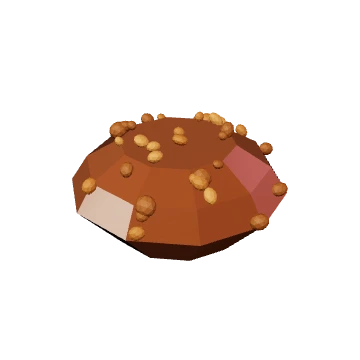
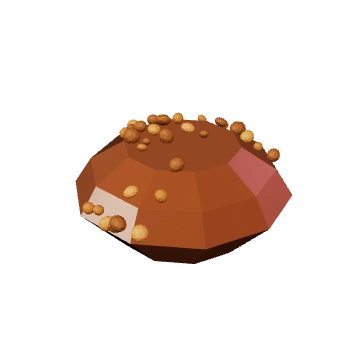
Faceted geometric heart, fluted dome, closed bases on every piece, walnut or pistachio coated truffles

Changed region(s): [[0.1833, 0.3056, 0.825, 0.7333], [0.55, 0.3667, 0.5806, 0.3972]]

diff --git a/js/models.js b/js/models.js
@@ -2,7 +2,7 @@
   مجسّمات الشوكولا: القطعة الكاملة (تقف على سطح، لا تطير) + القطعة المقطوعة (مقطع يُظهر الكبسولة: كبوة، حشوة، طبقة مقرمشة)
   + تزيين مجسّم فوق القطعة (ذهب/فستق/بندق/لوز) يوضع على السطح الحقيقي بالإشعاع.
 */
-import { THREE, TAU, TYPE_COLORS, FILL_COLORS, CRUNCH_COLORS, HEART, LIPS, circle, chaikin, centroid, pillow, ext, rr, shapeOf, lumpy, smooth, truffleGeo, powderOf } from './lib3d.js';
+import { THREE, TAU, TYPE_COLORS, FILL_COLORS, CRUNCH_COLORS, HEART, LIPS, circle, chaikin, centroid, pillow, ext, rr, shapeOf, lumpy, smooth, truffleGeo, powderOf, facetHeart, flutedDome } from './lib3d.js';
 
 export const SHAPES = ['tablet', 'truf', 'kalp', 'elmas', 'karamel', 'dudak'];
 export const SHELL_T = [.05, .085, .135];            // سماكة الكبوة: رقيقة، متوسطة، سميكة
@@ -18,7 +18,7 @@ export function ground(g, footprint = 1.95) {
 /* ------------------------------------------------------------------ القطعة الكاملة */
 export function buildWhole(id, M) {
   const g = new THREE.Group();
-  if (id === 'kalp') g.add(new THREE.Mesh(pillow(HEART, .52, .1, 22), M.gloss));
+  if (id === 'kalp') g.add(new THREE.Mesh(facetHeart(1, .1), M.flat));
   else if (id === 'dudak') g.add(new THREE.Mesh(pillow(LIPS, .42, .09, 22), M.gloss));
   else if (id === 'tablet') {
     const base = new THREE.Mesh(ext(rr(1.62, 2.14, .08), .05, .03, 3), M.gloss); g.add(base);
@@ -36,11 +36,7 @@ export function buildWhole(id, M) {
     const pts = [[0, 0], [.55, 0], [.95, .42], [.8, .66], [.5, .85], [0, .85]].map(([x, y]) => new THREE.Vector2(x, y));
     const m = new THREE.Mesh(new THREE.LatheGeometry(pts, 10), M.flat); m.rotation.y = Math.PI / 10; g.add(m);
   } else if (id === 'karamel') {
-    const pr = [new THREE.Vector2(1.03, 0)];
-    for (let i = 0; i <= 18; i++) { const a = i / 18 * Math.PI / 2; pr.push(new THREE.Vector2(Math.cos(a), Math.sin(a) * .82)); }
-    pr[pr.length - 1].x = .0001;
-    g.add(new THREE.Mesh(new THREE.LatheGeometry(pr, 56), M.gloss));
-    const f = new THREE.Mesh(new THREE.CylinderGeometry(.11, .11, .018, 6), M.gold); f.position.set(.04, .83, .02); g.add(f);
+    g.add(new THREE.Mesh(flutedDome(), M.gloss));
   }
   return ground(g, id === 'tablet' ? 1.9 : 1.95);
 }
@@ -48,11 +44,11 @@ export function buildWhole(id, M) {
 /* ------------------------------------------------------------------ التزيين المجسّم */
 const ray = new THREE.Raycaster(), _o = new THREE.Vector3(), _d = new THREE.Vector3(), _q = new THREE.Quaternion(), _m = new THREE.Matrix4(), _s = new THREE.Vector3(), _up = new THREE.Vector3(0, 1, 0), _c = new THREE.Color();
 const toppingDefs = {
-  hindistan: { n: 84, cover: 300, geo: () => new THREE.BoxGeometry(1, .1, .3), mat: () => new THREE.MeshStandardMaterial({ roughness: .95 }), size: [.07, .125], colors: [0xf8f1e0, 0xefe5cc, 0xfffaf0, 0xe9dcc0], off: .004, shred: true },
+  ceviz: { n: 60, cover: 430, geo: () => new THREE.IcosahedronGeometry(1, 0), mat: () => new THREE.MeshStandardMaterial({ roughness: .86, flatShading: true }), size: [.04, .085], colors: [0xb48a5a, 0xc9a574, 0x96704a, 0xa57d52, 0xd8bd90], off: .012 },
   altin: { n: 40, cover: 90, geo: () => { const g = new THREE.CircleGeometry(1, 5); g.rotateX(-Math.PI / 2); return g; }, mat: (M) => M.gold, size: [.03, .07], flat: true, off: .006 },
-  fistik: { n: 56, cover: 210, geo: () => new THREE.IcosahedronGeometry(1, 0), mat: () => new THREE.MeshStandardMaterial({ roughness: .55, flatShading: true }), size: [.028, .056], colors: [0x7f9f3e, 0x9cbd55, 0xb4cf72], off: .012 },
-  findik: { n: 34, cover: 120, geo: () => new THREE.IcosahedronGeometry(1, 1), mat: () => new THREE.MeshStandardMaterial({ roughness: .62, flatShading: true }), size: [.04, .072], colors: [0xa8702f, 0xbf8a46, 0x8b5826], off: .02 },
-  badem: { n: 24, cover: 90, geo: () => new THREE.SphereGeometry(1, 10, 8), mat: () => new THREE.MeshStandardMaterial({ roughness: .7 }), size: [.065, .1], colors: [0xd9b47c, 0xe4c590, 0xc9a06a], off: .012, almond: true }
+  fistik: { n: 56, cover: 800, geo: () => new THREE.IcosahedronGeometry(1, 0), mat: () => new THREE.MeshStandardMaterial({ roughness: .55, flatShading: true }), size: [.028, .056], colors: [0x7f9f3e, 0x9cbd55, 0xb4cf72], off: .012 },
+  findik: { n: 34, cover: 430, geo: () => new THREE.IcosahedronGeometry(1, 1), mat: () => new THREE.MeshStandardMaterial({ roughness: .62, flatShading: true }), size: [.04, .072], colors: [0xa8702f, 0xbf8a46, 0x8b5826], off: .02 },
+  badem: { n: 24, cover: 380, geo: () => new THREE.SphereGeometry(1, 10, 8), mat: () => new THREE.MeshStandardMaterial({ roughness: .7 }), size: [.065, .1], colors: [0xd9b47c, 0xe4c590, 0xc9a06a], off: .012, almond: true }
 };
 export function decorate(holder, kind, M) {
   if (holder.userData.deco) { holder.remove(holder.userData.deco); const d = holder.userData.deco; d.geometry.dispose(); d.material !== M.gold && d.material.dispose(); d.dispose(); holder.userData.deco = null; }
@@ -61,16 +57,20 @@ export function decorate(holder, kind, M) {
   const box = new THREE.Box3().setFromObject(holder); box.applyMatrix4(holder.matrixWorld.clone().invert());
   const spheres = holder.userData.spheres, total = spheres ? def.cover * spheres.length : def.n;
   const geo = def.geo(), im = new THREE.InstancedMesh(geo, def.mat(M), total); let k = 0; const hits = [];
-  if (spheres) {   // تروفل: كساء بكامل السطح (جوز هند / مكسرات) بأخذ عيّنات من كل كرة بإشعاعات من الخارج نحو المركز
-    const inv = holder.matrixWorld.clone().invert(), cen = new THREE.Vector3(), nrm = new THREE.Vector3(), dir = new THREE.Vector3();
+  if (spheres) {   // تروفل: كساء من كل الجهات: عيّنات موزونة بالمساحة من مثلثات كل حبة مباشرةً (بلا إشعاعات)، تُستثنى الملاصقة للسطح فقط
+    const A = new THREE.Vector3(), B = new THREE.Vector3(), C = new THREE.Vector3(), nA = new THREE.Vector3(), nB = new THREE.Vector3(), nC = new THREE.Vector3(), e1 = new THREE.Vector3(), e2 = new THREE.Vector3();
     spheres.forEach((mesh) => {
-      mesh.geometry.computeBoundingSphere(); mesh.getWorldPosition(cen); const R = mesh.geometry.boundingSphere.radius * mesh.getWorldScale(new THREE.Vector3()).x * 1.6 + .1; let got = 0;
-      for (let tries = 0; tries < def.cover * 10 && got < def.cover; tries++) {
-        dir.set(Math.random() * 2 - 1, Math.random() * 2 - 1, Math.random() * 2 - 1); if (dir.lengthSq() < .01 || dir.lengthSq() > 1) continue; dir.normalize();
-        _o.copy(cen).addScaledVector(dir, R); _d.copy(dir).negate(); ray.set(_o, _d);
-        const h = ray.intersectObject(mesh, false)[0]; if (!h || !h.face) continue;
-        nrm.copy(h.face.normal).transformDirection(mesh.matrixWorld); if (nrm.y < -.25) continue;
-        hits.push([holder.worldToLocal(h.point.clone()), nrm.clone().transformDirection(inv)]); got++;
+      mesh.updateMatrix();
+      const pos = mesh.geometry.attributes.position, nor = mesh.geometry.attributes.normal, tris = pos.count / 3, cum = new Float32Array(tris); let tot = 0;
+      for (let t = 0; t < tris; t++) { A.fromBufferAttribute(pos, t * 3); B.fromBufferAttribute(pos, t * 3 + 1); C.fromBufferAttribute(pos, t * 3 + 2); tot += e1.subVectors(B, A).cross(e2.subVectors(C, A)).length() * .5; cum[t] = tot; }
+      for (let k = 0, got = 0; got < def.cover && k < def.cover * 3; k++) {
+        const r = Math.random() * tot; let lo = 0, hi = tris - 1; while (lo < hi) { const m = (lo + hi) >> 1; if (cum[m] < r) lo = m + 1; else hi = m; }
+        let u = Math.random(), v = Math.random(); if (u + v > 1) { u = 1 - u; v = 1 - v; }
+        A.fromBufferAttribute(pos, lo * 3); B.fromBufferAttribute(pos, lo * 3 + 1); C.fromBufferAttribute(pos, lo * 3 + 2);
+        nA.fromBufferAttribute(nor, lo * 3); nB.fromBufferAttribute(nor, lo * 3 + 1); nC.fromBufferAttribute(nor, lo * 3 + 2);
+        const p = A.clone().addScaledVector(e1.subVectors(B, A), u).addScaledVector(e2.subVectors(C, A), v).applyMatrix4(mesh.matrix);
+        const n = nA.clone().multiplyScalar(1 - u - v).addScaledVector(nB, u).addScaledVector(nC, v).transformDirection(mesh.matrix);
+        hits.push([p, n]); got++;
       }
     });
   } else {
@@ -102,10 +102,16 @@ function domeProfile(W, H, wall) {
   for (let i = 0; i <= n; i++) { const x = W * (1 - 2 * i / n); pts.push([x, wall + (H - wall) * Math.pow(Math.max(0, 1 - Math.pow(Math.abs(x) / W, 2.4)), 1 / 2.4)]); }
   return chaikin(pts, 2);
 }
+/* القبة المضلّعة: جوانب عمودية عند القاعدة تنحني نحو قرص القمة المسطّح */
+function bellProfile(W, H, wall, Rt) {
+  const n = 28, right = [], left = [];
+  for (let i = 0; i <= n; i++) { const a = i / n * Math.PI / 2, x = W * (Rt + (1 - Rt) * Math.cos(a)), y = wall + (H - wall) * Math.sin(a); right.push([x, y]); left.unshift([-x, y]); }
+  return chaikin([[-W, 0], [W, 0], ...right, ...left], 2);
+}
 function profileOf(id) {
-  if (id === 'kalp') return domeProfile(.95, .55, .1);
+  if (id === 'kalp') return [[-.95, 0], [.95, 0], [.95, .1], [.62, .48], [.3, .58], [0, .5], [-.3, .58], [-.62, .48], [-.95, .1]];   // مقطع مضلّع حادّ الزوايا
   if (id === 'dudak') return domeProfile(.95, .44, .09);
-  if (id === 'karamel') return domeProfile(.9, .82, .07);
+  if (id === 'karamel') return bellProfile(.92, .84, .07, .23);
   if (id === 'truf') return circle(.86, 80).map(([x, y]) => [x, y + .86]);
   if (id === 'elmas') return chaikin([[-.55, 0], [.55, 0], [.95, .42], [.8, .66], [.5, .85], [-.5, .85], [-.8, .66], [-.95, .42]], 1);
   // tablet: صف من ثلاث مربعات بارزة فوق القاعدة
@@ -129,8 +135,8 @@ export function buildSlice(cfg, M) {
   const mkExt = (pts, depth, bev) => new THREE.ExtrudeGeometry(shapeOf(pts), { depth, bevelEnabled: true, bevelThickness: bev, bevelSize: bev, bevelSegments: 2, curveSegments: 4 });
   const D = .24;
   if (cfg.shape === 'truf') { // طبقة مسحوق الكاكاو في الخارج
-    const COAT = { hindistan: 0xf3ead6, findik: 0xa8702f, fistik: 0x9cbd55, badem: 0xd9b47c, altin: 0xd8a93a };
-    const dm = M.dusty.clone(); dm.color.setHex(COAT[cfg.top] ?? powderOf(tcol)); dm.sheen = 0; dm.emissiveIntensity = 0;   // كساء التروفل: مسحوق أو جوز هند أو مكسرات
+    const COAT = { ceviz: 0xa8825a, findik: 0xa8702f, fistik: 0x9cbd55, badem: 0xd9b47c, altin: 0xd8a93a };
+    const dm = M.dusty.clone(); dm.color.setHex(COAT[cfg.top] ?? powderOf(tcol)); dm.sheen = 0; dm.emissiveIntensity = 0;   // كساء التروفل: مسحوق أو جوز أو فستق أو مكسرات
     add('dust', new THREE.Mesh(mkExt(circle(.9, 80).map(([x, y]) => [x, y + .86]), D - .02, .02), [dm, dm]));
   }
   add('shell', new THREE.Mesh(mkExt(outline, D, .02), [shellCut, shellSide]));

diff --git a/js/lib3d.js b/js/lib3d.js
@@ -81,8 +81,8 @@ export function pillow(outline, H, wall = .1, K = 22) {
   for (let k = 0; k <= K; k++) rings.push(XY[k].map(([vx, vy], i) => vert(vx, HT[k][i], -vy)));
   for (let k = 0; k < K; k++) for (let i = 0; i < N; i++) { const a = rings[k][i], b = rings[k][(i + 1) % N], c = rings[k + 1][i], d = rings[k + 1][(i + 1) % N]; idx.push(a, c, b, b, c, d); }
   const w0 = [], w1 = []; for (let i = 0; i < N; i++) { const [px, py] = outline[i]; w0.push(vert(px, 0, -py)); w1.push(vert(px, -wall, -py)); }
-  for (let i = 0; i < N; i++) { const a = w0[i], b = w0[(i + 1) % N], c = w1[i], d = w1[(i + 1) % N]; idx.push(a, c, b, b, c, d); }
-  const ctr = vert(cx, -wall, -cy); for (let i = 0; i < N; i++) idx.push(ctr, w1[(i + 1) % N], w1[i]);
+  for (let i = 0; i < N; i++) { const a = w0[i], b = w0[(i + 1) % N], c = w1[i], d = w1[(i + 1) % N]; idx.push(a, b, c, b, d, c); }
+  const ctr = vert(cx, -wall, -cy); for (let i = 0; i < N; i++) idx.push(ctr, w1[i], w1[(i + 1) % N]);
   const g = new THREE.BufferGeometry(); g.setAttribute('position', new THREE.Float32BufferAttribute(pos, 3)); g.setAttribute('uv', new THREE.Float32BufferAttribute(uv, 2)); g.setIndex(idx); g.computeVertexNormals();
   const nrm = g.attributes.normal;
   // نورمالات تحليلية من حقل الارتفاع نفسه (لا من مثلثات رفيعة تقع على أشعة متقاربة قرب رأس القلب والشق): تظليل ناعم تماماً
@@ -93,6 +93,61 @@ export function pillow(outline, H, wall = .1, K = 22) {
   }
   for (let i = 0; i < N; i++) { const a = rings[0][i], b = w0[i], nx = (nrm.getX(a) + nrm.getX(b)) / 2, ny = (nrm.getY(a) + nrm.getY(b)) / 2, nz = (nrm.getZ(a) + nrm.getZ(b)) / 2, l = Math.hypot(nx, ny, nz) || 1; nrm.setXYZ(a, nx / l, ny / l, nz / l); nrm.setXYZ(b, nx / l, ny / l, nz / l); }
   return g;
+}
+
+/* ------------------------------------------------------------------ قلب مضلّع (Geometric heart)
+   أوجه مسطحة بحرافٍ حادّة كقالب السيليكون الحقيقي: حلقة خارجية ناعمة الحدّ، حلقة داخلية بعدد قليل من القمم، ومحور وسطي مرتفع. قاعدة مسطّحة مغلقة. */
+export function facetHeart(S = 1, wall = .1) {
+  const O = [[0, .47], [.28, .76], [.6, .89], [.88, .77], [1, .42], [.92, .12], [.53, -.3], [.22, -.6], [0, -.9]];
+  const I = [[0, .38, .2], [.27, .62, .36], [.55, .68, .5], [.78, .55, .44], [.82, .28, .4], [.68, 0, .42], [.38, -.28, .4], [.16, -.55, .26], [0, -.7, .18]];
+  const mirror = (a, f) => a.concat(a.slice(1, -1).reverse().map(f));
+  const kO = mirror(O, ([x, y]) => [-x, y]), kI = mirror(I, ([x, y, h]) => [-x, y, h]), K = kO.length, RIM = .07 * S;
+  const pos = [], uv = [], P = (x, h, y) => [x, h, -y];
+  const tri = (a, b, c, dir) => {   // يضمن أن يكون وجه المثلث إلى الخارج
+    const ux = b[0] - a[0], uy = b[1] - a[1], uz = b[2] - a[2], vx = c[0] - a[0], vy = c[1] - a[1], vz = c[2] - a[2];
+    const nx = uy * vz - uz * vy, ny = uz * vx - ux * vz, nz = ux * vy - uy * vx, cx = (a[0] + b[0] + c[0]) / 3, cz = (a[2] + b[2] + c[2]) / 3;
+    const d = dir === 'up' ? ny : dir === 'down' ? -ny : nx * cx + nz * cz;
+    (d < 0 ? [a, c, b] : [a, b, c]).forEach((p) => { pos.push(p[0], p[1], p[2]); uv.push(p[0] * .5 + .5, p[2] * .5 + .5); });
+  };
+  const ring = [], u = [], ch = .18;   // حدّ مضلّع بزوايا مشطوفة قليلاً: كل ضلع وجه مسطّح
+  kO.forEach((v, i) => { const p = kO[(i + K - 1) % K], n = kO[(i + 1) % K]; ring.push([v[0] + (p[0] - v[0]) * ch, v[1] + (p[1] - v[1]) * ch], [v[0] + (n[0] - v[0]) * ch, v[1] + (n[1] - v[1]) * ch]); u.push((i - ch + K) % K, i + ch); });
+  const N = ring.length;
+  const J = (uu) => { const i0 = Math.floor(uu) % K, f = uu - Math.floor(uu), a = kI[i0], b = kI[(i0 + 1) % K]; return P(a[0] + (b[0] - a[0]) * f, (a[2] + (b[2] - a[2]) * f) * S, a[1] + (b[1] - a[1]) * f); };
+  const top = ring.map(([x, y]) => P(x, RIM, y)), low = ring.map(([x, y]) => P(x, -wall, y)), inn = u.map(J), c0 = P(0, -wall, 0);
+  for (let k = 0; k < N; k++) {
+    const k2 = (k + 1) % N;
+    tri(top[k], top[k2], inn[k2], 'up'); tri(top[k], inn[k2], inn[k], 'up');      // حزام الأوجه من الحافّة نحو الداخل
+    tri(top[k], top[k2], low[k], 'wall'); tri(top[k2], low[k2], low[k], 'wall');   // جدار القاعدة
+    tri(c0, low[k], low[k2], 'down');                                              // قاعدة مسطّحة مغلقة
+  }
+  const V = kI.map(([x, y, h]) => P(x, h * S, y)), S1 = P(0, .52 * S, .12), S2 = P(0, .45 * S, -.28), L = (i) => (i === 0 || i === 8 ? i : K - i);
+  const get = (id, left) => (id === 'a' ? S1 : id === 'b' ? S2 : V[left ? L(id) : id]);
+  [[0, 1, 'a'], [1, 2, 'a'], [2, 3, 'a'], [3, 4, 'a'], [4, 5, 'a'], [5, 'b', 'a'], [5, 6, 'b'], [6, 7, 'b'], [7, 8, 'b']].forEach((t) => {   // التاج: أوجه كبيرة مسطحة
+    tri(get(t[0], false), get(t[1], false), get(t[2], false), 'up'); tri(get(t[0], true), get(t[1], true), get(t[2], true), 'up');
+  });
+  const g = new THREE.BufferGeometry(); g.setAttribute('position', new THREE.Float32BufferAttribute(pos, 3)); g.setAttribute('uv', new THREE.Float32BufferAttribute(uv, 2)); g.computeVertexNormals(); return g;
+}
+
+/* ------------------------------------------------------------------ قبة مضلّعة (Fluted dome)
+   أضلاع طولية مستديرة تتجمّع عند قرص دائري صغير في القمة كما في قالب الشوكولا الحقيقي، وقاعدة مسطّحة مغلقة. */
+export function flutedDome(o = {}) {
+  const ribs = o.ribs || 16, R = o.R || 1, H = o.H || .84, Rt = o.Rt || .23, A0 = o.A0 || .15, NT = ribs * 12, NS = 44;
+  const pos = [], uv = [], idx = [], V = (x, y, z) => { pos.push(x, y, z); uv.push(x * .5 + .5, z * .5 + .5); return pos.length / 3 - 1; };
+  const lobe = (th) => { const c = Math.abs(Math.cos(ribs * th / 2)); return Math.pow(Math.sqrt(c * c + .015), .7) / Math.pow(Math.sqrt(1.015), .7); };
+  const ss = (a, b, x) => { const t = Math.min(1, Math.max(0, (x - a) / (b - a))); return t * t * (3 - 2 * t); };
+  const rows = [];
+  for (let j = 0; j <= NS; j++) {
+    const s = j / NS, a = s * Math.PI / 2, Rm = R * (Rt + (1 - Rt) * Math.cos(a)), y = H * Math.sin(a), A = A0 * (1 - ss(.82, 1, s)), row = [];
+    for (let i = 0; i < NT; i++) { const th = i / NT * TAU, r = Rm * (1 - A * (1 - lobe(th))); row.push(V(Math.cos(th) * r, y, Math.sin(th) * r)); }
+    rows.push(row);
+  }
+  for (let j = 0; j < NS; j++) for (let i = 0; i < NT; i++) { const i2 = (i + 1) % NT, a = rows[j][i], b = rows[j + 1][i], c = rows[j][i2], d = rows[j + 1][i2]; idx.push(a, b, c, c, b, d); }
+  const ring = (r, y) => Array.from({ length: NT }, (_, i) => { const th = i / NT * TAU; return V(Math.cos(th) * r, y, Math.sin(th) * r); });
+  const D0 = ring(R * Rt, H), D1 = ring(R * Rt * .9, H + .02), dc = V(0, H + .027, 0);          // قرص القمة بحافّة بارزة قليلاً
+  for (let i = 0; i < NT; i++) { const i2 = (i + 1) % NT; idx.push(D0[i], D1[i], D0[i2], D0[i2], D1[i], D1[i2], dc, D1[i2], D1[i]); }
+  const B0 = rows[0].map((id) => V(pos[id * 3], 0, pos[id * 3 + 2])), bc = V(0, 0, 0);            // قاعدة مسطّحة مغلقة
+  for (let i = 0; i < NT; i++) idx.push(bc, B0[i], B0[(i + 1) % NT]);
+  const g = new THREE.BufferGeometry(); g.setAttribute('position', new THREE.Float32BufferAttribute(pos, 3)); g.setAttribute('uv', new THREE.Float32BufferAttribute(uv, 2)); g.setIndex(idx); g.computeVertexNormals(); return g;
 }
 
 /* ------------------------------------------------------------------ تظليل ناعم لـ ExtrudeGeometry + قطاعات */

diff --git a/js/app.js b/js/app.js
@@ -17,6 +17,8 @@ const SWATCH = { bitter: '#2a130b', sutlu: '#8a5230', beyaz: '#f1e4c8', ruby: '#
 const FILLSW = { sade: '#5a3322', karamel: '#d08a2e', frambuaz: '#b01f45', findik: '#a87340', fistik: '#9db55c' };
 const CRUNSW = { findik: '#c79559', biskuvi: '#dcb87f' };
 const KEY = 'mh-cart-v2', FKEY = 'mh-form-v1';
+const topsFor = (shape) => (shape === 'truf' ? ['yok', 'ceviz', 'fistik', 'findik', 'badem'] : ['yok', 'altin', 'ceviz', 'fistik', 'findik', 'badem']);
+const COATSW = { yok: '#4a2c1c', ceviz: '#a8825a', fistik: '#9cbd55', findik: '#a8702f', badem: '#d9b47c', altin: '#e6bd5e' };
 const waLink = (text) => `https://wa.me/${CONFIG.WA_NUMBER || ''}?text=${encodeURIComponent(text)}`;
 const store = (k, v) => { try { v === undefined ? localStorage.removeItem(k) : localStorage.setItem(k, JSON.stringify(v)); } catch (e) {} };
 const load = (k, d) => { try { const v = JSON.parse(localStorage.getItem(k) || 'null'); return v == null ? d : v; } catch (e) { return d; } };
@@ -158,11 +160,11 @@ function paintWiz() {
     step(1, T[0], `${C.types[s.type]} · ${C.shells[s.shell]}`, `<div class="chips">${chipsHTML('type', TYPES, (k) => C.types[k], s.type, SWATCH)}</div>${lab(C.shellLabel)}<div class="chips">${chipsHTML('shell', [0, 1, 2], (k) => C.shells[k], s.shell)}</div>`) +
     step(2, T[1], tablet ? '—' : C.fills[s.fill], tablet ? `<p class="wz-n">${esc(C.studio.tabletNote)}</p>` : `<div class="chips">${chipsHTML('fill', FILLS, (k) => C.fills[k], s.fill, FILLSW)}</div>`) +
     step(3, T[2], s.crunch === 'yok' ? C.crunch.yok : `${C.crunch[s.crunch]} · ${C.amounts[s.crunchAmt]}`, `<div class="chips">${chipsHTML('crunch', CRUNCHES, (k) => C.crunch[k], s.crunch, CRUNSW)}</div>${s.crunch !== 'yok' ? lab(C.amountLabel) + `<div class="chips">${chipsHTML('crunchAmt', [0, 1, 2], (k) => C.amounts[k], s.crunchAmt)}</div>` : ''}`) +
-    step(4, T[3], C.tops[s.top], `<div class="chips">${chipsHTML('top', TOPS, (k) => C.tops[k], s.top)}</div>`);
+    step(4, s.shape === 'truf' ? C.stepTruf : T[3], C.tops[s.top], `<div class="chips">${chipsHTML('top', topsFor(s.shape), (k) => C.tops[k], s.top)}</div>`);
 }
-const layerIds = () => { const s = state, a = []; if (s.shape === 'truf') a.push('dust'); a.push('shell'); if (s.shape !== 'tablet' && s.fill !== 'yok') a.push('fill'); if (s.crunch !== 'yok') a.push('crunch'); if (s.top !== 'yok') a.push('top'); return a; };
-function layerSub(id) { const s = state; return id === 'shell' ? `${C.types[s.type]} · ${C.shells[s.shell].toLowerCase()}` : id === 'fill' ? C.fills[s.fill] : id === 'crunch' ? `${C.crunch[s.crunch]} · ${C.amounts[s.crunchAmt].toLowerCase()}` : id === 'top' ? C.tops[s.top] : ''; }
-const layerColor = (id) => id === 'shell' ? SWATCH[state.type] : id === 'fill' ? FILLSW[state.fill] : id === 'crunch' ? CRUNSW[state.crunch] : id === 'dust' ? '#4a2c1c' : '#e6bd5e';
+const layerIds = () => { const s = state, a = []; if (s.shape === 'truf') a.push('dust'); a.push('shell'); if (s.shape !== 'tablet' && s.fill !== 'yok') a.push('fill'); if (s.crunch !== 'yok') a.push('crunch'); if (s.top !== 'yok' && s.shape !== 'truf') a.push('top'); return a; };
+function layerSub(id) { const s = state; return id === 'shell' ? `${C.types[s.type]} · ${C.shells[s.shell].toLowerCase()}` : id === 'fill' ? C.fills[s.fill] : id === 'crunch' ? `${C.crunch[s.crunch]} · ${C.amounts[s.crunchAmt].toLowerCase()}` : id === 'top' ? C.tops[s.top] : id === 'dust' ? (s.top === 'yok' ? 'Kakao tozu' : C.tops[s.top]) : ''; }
+const layerColor = (id) => id === 'shell' ? SWATCH[state.type] : id === 'fill' ? FILLSW[state.fill] : id === 'crunch' ? CRUNSW[state.crunch] : id === 'dust' ? COATSW[state.top] || COATSW.yok : '#e6bd5e';
 function paintLayers() {
   const ids = layerIds(); if (selLayer && !ids.includes(selLayer)) selLayer = null;
   $('#layers').innerHTML = ids.map((id) => { const L = C.layers[id], on = id === selLayer; return `<button type="button" class="ly ${on ? 'on' : ''}" data-id="${id}"><i style="background:${layerColor(id)}"></i><span><b>${esc(L.n)}</b><em>${esc(layerSub(id))}</em></span></button>${on ? `<p class="ly-d">${esc(L.d)}</p>` : ''}`; }).join('');
@@ -175,9 +177,12 @@ function meters() {
   return [['yog', yog], ['yum', yum], ['cit', cit], ['tat', tat]];
 }
 function paintMeters() { $('#meters').innerHTML = meters().map(([k, v]) => `<div class="mt"><span>${esc(C.meters[k])}</span><div><i style="width:${Math.round(v * 100)}%"></i></div></div>`).join(''); }
+let autoTop = false;   // زينة وضعها الموقع تلقائياً للتروفل (الجوز)، تُزال عند الخروج منه
 function sync(patch) {
+  if (patch && patch.top) autoTop = false;
   if (patch && patch.shape && patch.shape !== state.shape) { if (state.shape === 'tablet') state.fill = lastFill; if (patch.shape === 'tablet') { lastFill = state.fill === 'yok' ? lastFill : state.fill; patch.fill = 'yok'; } }
-  if (patch && patch.shape === 'truf' && state.shape !== 'truf' && state.top === 'yok' && !patch.top) patch.top = 'hindistan';   // التروفل يأتي مكسواً بجوز الهند افتراضياً
+  if (patch && patch.shape === 'truf' && state.shape !== 'truf' && (state.top === 'yok' || state.top === 'altin') && !patch.top) { patch.top = 'ceviz'; autoTop = true; }   // التروفل يأتي مكسواً بالجوز افتراضياً
+  else if (patch && patch.shape && patch.shape !== 'truf' && state.shape === 'truf' && autoTop && state.top === 'ceviz' && !patch.top) { patch.top = 'yok'; autoTop = false; }
   Object.assign(state, patch || {});
   paintShapes(); paintWiz(); paintLayers(); paintMeters(); if (studio) { studio.set(cfgOf()); if (selLayer) studio.highlight(selLayer); }
 }
@@ -223,7 +228,7 @@ const studioLife = lifecycle($('#atolye'), {
 });
 
 /* ---------------------------------------------------------------- السلة */
-let items = load(KEY, []).filter((i) => i && i.qty > 0).slice(0, 40);
+let items = load(KEY, []).filter((i) => i && i.qty > 0).slice(0, 40).map((i) => (i.top === 'hindistan' ? { ...i, top: 'ceviz' } : i));
 const saveCart = () => store(KEY, items);
 const itemKey = (i) => i.k === 'custom' ? 'c|' + i.text : ['p', i.shape, i.type, i.shell, i.fill, i.crunch, i.crunchAmt, i.top, i.note || ''].join('|');
 function addItem(it) {
@@ -310,7 +315,7 @@ $('#dOk').onclick = () => { items = []; saveCart(); orderText.code = null; $('#d
 $('#dAgain').onclick = () => { if (lastUrl) window.open(lastUrl, '_blank', 'noopener'); };
 function fromHash() {
   const m = /^#p=([a-z]+)\.([a-z]+)\.(\d)\.([a-z]+)\.([a-z]+)\.(\d)\.([a-z]+)$/.exec(location.hash); if (!m) return;
-  const [, shape, type, shell, fill, crunch, amt, top] = m;
+  let [, shape, type, shell, fill, crunch, amt, top] = m; if (top === 'hindistan' || (shape === 'truf' && top === 'altin')) top = 'ceviz';
   if (!SHAPES.includes(shape) || !TYPES.includes(type) || +shell > 2 || (fill !== 'yok' && !FILLS.includes(fill)) || !CRUNCHES.includes(crunch) || +amt > 2 || !TOPS.includes(top)) return;
   sync({ shape, type, shell: +shell, fill, crunch, crunchAmt: +amt, top }); setTimeout(() => { goTo('#atolye'); toast(C.toast.loaded); }, 900);
 }

diff --git a/js/studio3d.js b/js/studio3d.js
@@ -35,14 +35,15 @@ export function createStudio(canvas, cfg0 = {}) {
   let wd = { hx: 1, hy: .5, hz: 1 }, sd = { hx: 1, hy: .3, hz: .2 };
   const qW = new THREE.Quaternion(), qS = new THREE.Quaternion(), qI = new THREE.Quaternion(), eul = new THREE.Euler(), tq = new THREE.Quaternion(), tv = new THREE.Vector3();
   const AY = new THREE.Vector3(0, 1, 0), AX = new THREE.Vector3(1, 0, 0), vW = { y: .5, x: 0 }, vS = { y: 0, x: 0 };
-  const WX = -1.35, SX = 1.2;
+  const WX = -1.35, SX = 1.2, REST = { kalp: .5, dudak: .5, tablet: .42 };   // القطع المسطّحة تميل نحو الكاميرا ليظهر شكلها
+  let restX = 0;
   const knife = new THREE.Mesh(new THREE.PlaneGeometry(.05, 2.4), new THREE.MeshBasicMaterial({ color: 0xffffff, transparent: true, opacity: 0, blending: THREE.AdditiveBlending, depthWrite: false })); knife.position.set(0, 1, .9); scene.add(knife);
 
   function buildWholeNow() {
     if (whole) { pivot.remove(whole); whole.traverse((n) => { if (n.geometry) n.geometry.dispose(); if (n.isInstancedMesh) { n.dispose(); n.material !== M.gold && n.material.dispose(); } }); }
     whole = buildWhole(cfg.shape, M); const b = new THREE.Box3().setFromObject(whole);
     wd = { hx: (b.max.x - b.min.x) / 2, hy: (b.max.y - b.min.y) / 2, hz: (b.max.z - b.min.z) / 2 };
-    whole.position.y = -wd.hy; pivot.add(whole); pivot.position.y = wd.hy; qW.identity(); vW.y = .5; vW.x = 0;
+    whole.position.y = -wd.hy; pivot.add(whole); pivot.position.y = wd.hy; restX = REST[cfg.shape] || 0; qW.setFromEuler(eul.set(restX, restX ? -.25 : 0, 0, 'YXZ')); vW.y = restX ? 0 : .5; vW.x = 0;
     scene.updateMatrixWorld(true); decorate(whole, cfg.top, M);
   }
   function buildSliceNow(animate) {
@@ -81,7 +82,7 @@ export function createStudio(canvas, cfg0 = {}) {
   };
   paintType(M, TYPE_COLORS[cfg.type]);
   api.highlight = (id) => { lit = id; setHighlight(slice, id, tw); };
-  api.replayCut = () => { qW.identity(); qS.identity(); playCut(); };
+  api.replayCut = () => { qW.setFromEuler(eul.set(restX, restX ? -.25 : 0, 0, 'YXZ')); qS.identity(); playCut(); };
   api.wobble = () => { tw(700, (p) => { wholeHolder.rotation.z = Math.sin(p * 18) * (1 - p) * .1; }, () => { wholeHolder.rotation.z = 0; }); };
 
   /* ---------------------------------------------------------------- سحب حر 360° + نقر على الطبقات */
@@ -113,8 +114,9 @@ export function createStudio(canvas, cfg0 = {}) {
       if (Math.abs(vW.y) + Math.abs(vW.x) > .002) { tq.setFromAxisAngle(AY, vW.y * dt); qW.premultiply(tq); tq.setFromAxisAngle(AX, vW.x * dt); qW.premultiply(tq); const d = Math.exp(-dt * (idle ? 1.1 : 2.4)); vW.y *= d; vW.x *= d; }
       if (Math.abs(vS.y) + Math.abs(vS.x) > .002) { tq.setFromAxisAngle(AY, vS.y * dt); qS.premultiply(tq); tq.setFromAxisAngle(AX, vS.x * dt); qS.premultiply(tq); const d = Math.exp(-dt * 2.4); vS.y *= d; vS.x *= d; }
       if (idle) {
-        tq.setFromAxisAngle(AY, .5 * dt); qW.premultiply(tq);
-        eul.setFromQuaternion(qW, 'YXZ'); tq.setFromEuler(eul.set(0, eul.y, 0, 'YXZ')); qW.slerp(tq, 1 - Math.exp(-dt * 1.1));   // يعود أفقياً ويحتفظ بزاوية الدوران
+        if (restX) { tq.setFromEuler(eul.set(restX, Math.sin(S.time * .55) * .5 - .25, 0, 'YXZ')); qW.slerp(tq, 1 - Math.exp(-dt * 1.4)); }   // مائلة: تتمايل بهدوء بدل الدوران الكامل
+        else { tq.setFromAxisAngle(AY, .5 * dt); qW.premultiply(tq);
+        eul.setFromQuaternion(qW, 'YXZ'); tq.setFromEuler(eul.set(0, eul.y, 0, 'YXZ')); qW.slerp(tq, 1 - Math.exp(-dt * 1.1)); }   // يعود أفقياً ويحتفظ بزاوية الدوران
         qS.slerp(qI, 1 - Math.exp(-dt * 1.5));
       }
     }

diff --git a/js/content.js b/js/content.js
@@ -50,18 +50,19 @@ export const C = {
   shapes: {
     tablet: { n: 'Tablet', d: 'Kırılıp paylaşılan klasik tablet.' },
     truf: { n: 'Trüf', d: 'Yumuşak ve kakaolu, ağızda dağılan.' },
-    kalp: { n: 'Kalpli', d: 'Sevdiğine en güzel mesaj.' },
+    kalp: { n: 'Kalpli', d: 'Köşeli yüzlü, parlak kalp.' },
     elmas: { n: 'Elmas', d: 'Kalıpta şekillenen, parlak yüzlü.' },
-    karamel: { n: 'Kubbe', d: 'Parlak kubbe, içi dolgulu.' },
+    karamel: { n: 'Kubbe', d: 'Oluklu, parlak kubbe; içi dolgulu.' },
     dudak: { n: 'Mutlu dudaklar', d: 'Meyve dolgulu, gülümseten şekil.' }
   },
   types: { bitter: 'Bitter', sutlu: 'Sütlü', beyaz: 'Beyaz', ruby: 'Ruby' },
   shellLabel: 'Kabuk kalınlığı', shells: ['İnce', 'Orta', 'Kalın'],
   fills: { yok: 'Dolgusuz', sade: 'Sade ganaj', karamel: 'Karamel', frambuaz: 'Frambuaz jölesi', findik: 'Fındık kreması', fistik: 'Antep fıstığı kreması' },
   crunchLabel: 'Çıtır katman', crunch: { yok: 'Yok', findik: 'Fındık parçaları', biskuvi: 'Bisküvi çıtırı' }, amountLabel: 'Miktar', amounts: ['Az', 'Orta', 'Bol'],
-  tops: { yok: 'Sade', altin: 'Altın yaldız', hindistan: 'Hindistan cevizi', fistik: 'Antep fıstığı', findik: 'Fındık', badem: 'Badem' },
+  tops: { yok: 'Sade', altin: 'Altın yaldız', ceviz: 'Ceviz', fistik: 'Antep fıstığı', findik: 'Fındık', badem: 'Badem' },
+  stepTruf: { t: 'Kaplama', d: 'Trüfün her yanını saran kıyılmış kuruyemiş' },
   layers: {
-    dust: { n: 'Kaplama', d: 'Trüfün dışındaki kaplama: kakao tozu, hindistan cevizi ya da kıyılmış kuruyemiş.' },
+    dust: { n: 'Kaplama', d: 'Trüfün dışını saran kaplama: kakao tozu ya da kıyılmış ceviz, Antep fıstığı gibi kuruyemişler.' },
     shell: { n: 'Kabuk', d: 'Parlak dış kabuk. Kalıpta ya da daldırılarak hazırlanır; ince kabuk daha yumuşak, kalın kabuk daha çıtır olur.' },
     fill: { n: 'Dolgu', d: 'Kabuğun içindeki yumuşak katman.' },
     crunch: { n: 'Çıtır katman', d: 'Isırınca çıtırdayan parçacıklar.' },

diff --git a/README.md b/README.md
@@ -3,7 +3,7 @@
 Static website (HTML/CSS/vanilla JS, no build step) for a home chocolatier in Gaziantep, Türkiye, who makes everything to order.
 
 - Scroll-story hero: one big chocolate bar standing on a glossy surface with a live reflection over a melted-chocolate backdrop you can stir. Each scroll stop moves it: it snaps in half with crumbs and nuts, a knife cuts a slice that turns to show its layers, it softens into a puddle, and a ruby heart rises with a call to action. Native scrolling (no scroll hijacking); the timeline is a deterministic function of progress so it plays forward and backward. Each chapter carries a short line for chocolate lovers.
-- Studio: six 3D pieces, each shown whole next to its cut-open half, with callouts naming the shell, filling, crunch and coating. Free 360 degree trackball drag (up, down, left, right) with inertia, an idle spin and a smooth return to upright. Thumbnails of the pieces are rendered from the same 3D models. Previous / next buttons flip through the pieces. Four steps (chocolate and shell thickness, filling, crunchy layer, topping) rebuild the cross-section live; tap a layer to see what it is. Truffles are rolled in coconut shreds or nuts, placed over the whole surface.
+- Studio: six 3D pieces (tablet, truffles, a geometric faceted heart, a fluted dome, a diamond-cut piece, lips), all with closed bases, each shown whole next to its cut-open half, with callouts naming the shell, filling, crunch and coating. Free 360 degree trackball drag (up, down, left, right) with inertia, an idle spin and a smooth return to upright. Thumbnails of the pieces are rendered from the same 3D models. Previous / next buttons flip through the pieces. Four steps (chocolate and shell thickness, filling, crunchy layer, topping) rebuild the cross-section live; tap a layer to see what it is. Truffles come coated by default in walnut pieces over the whole surface, from every side; walnut, Antep pistachio, hazelnut, almond or plain can be chosen.
 - Time and temperature: a self-running clock, a thermometer and a 3D piece that softens and melts with temperature and time.
 - How it is made: a tempering curve that draws as you scroll.
 - Quotes: a short rotating set of lines about chocolate, only animated while on screen.
